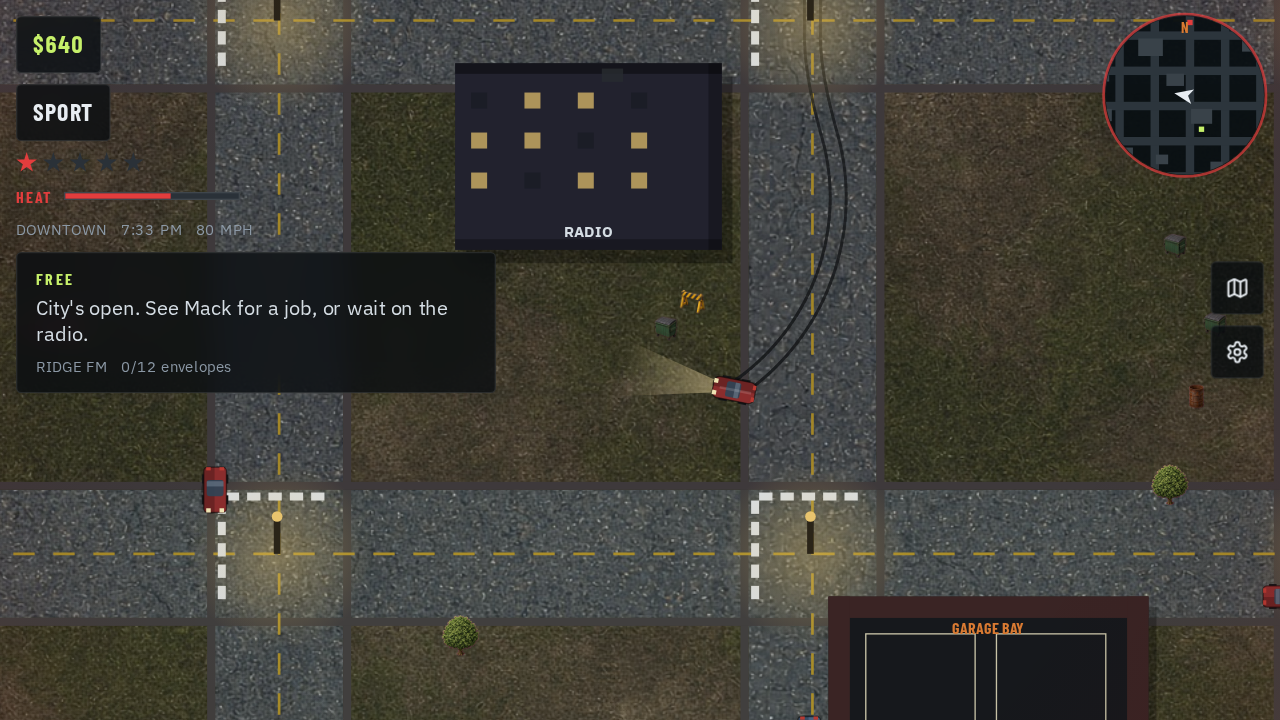
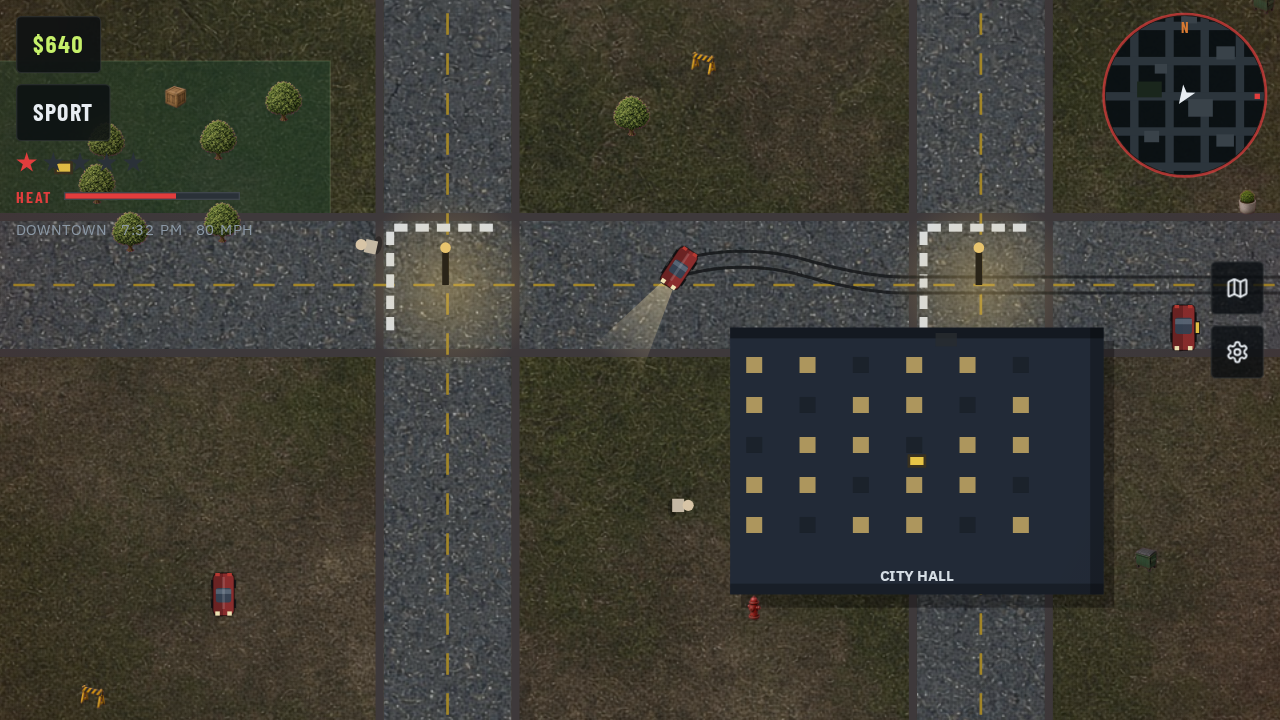
Media kit v1: apply the stills review
Stills. Shots 2, 3, 4 and 6 recaptured from the live site with the
free-roam job panel (.hud-mission) hidden: the same "FREE / City's open"
panel sat in four of six frames and covered the road in the chase. Shot 6
also hides the "SLOW DOWN, hide in the garage" hint, which contradicted a
car already parked in the bay and covered Mack. capture.mjs gains a
hideMission switch. Shot 5, the map, is dropped (flat grid, labels the
game draws on top of each other); the spec allows 4 to 6 stills and
capture.mjs keeps the map shot as an alt.

Card and banner. A darker, feathered band behind each title hides the
crosswalk paint that showed in the letter gaps, and the left shade goes
from 0.94 to 0.98 so the city's lit windows stop showing at lower left.
The road behind CITY and the car's headlight beam stay lit. The card's
age line and URL go from 28 to 35 px (about 12 px at phone width).

Rating. The card's age line is now read from the game's own start card
instead of being typed in compose.py, compose.py refuses to build when
the three share descriptions in index.html name a different age, and the
line is stamped into og.jpg so a stale card is detectable.

media/check.py checks the kit (sizes, stills, share tags, rating) and,
with --live, the deployed site: the live page's og:image must return 200
image/jpeg with the same bytes as public/og.jpg. It fails today, because
the live site does not carry the kit yet. README documents the ship and
rating-change steps.

diff --git a/media/compose.py b/media/compose.py
@@ -6,9 +6,15 @@
 Inputs: media/keyart.png (1920x1080, the game's own render at 2x, no DOM HUD; see media/capture.mjs `keyart`)
 and media/icon.svg. Fonts are the game's own (Barlow Condensed, IBM Plex Sans; SIL OFL), fetched from
 Google Fonts into ~/.cache/ridge-city-media/fonts on first run. Needs Pillow and the Inkscape CLI.
+
+The rating line on the card is read from the game's own start card (src/game/RidgeCity.tsx), never typed
+here, and the build refuses if the share descriptions in index.html name a different age. The kicker is
+stamped into og.jpg as a JPEG comment so `media/check.py` can tell when the card predates a rating change.
 """
 import os
+import re
 import subprocess
+import sys
 import urllib.request
 from pathlib import Path
 
@@ -35,11 +41,39 @@ ACCENT = (217, 122, 50)
 
 TITLE = "RIDGE CITY"
 TAGLINE = "Boost cars. Lose the tail. Get paid."
-KICKER = "AGES 10+ · NO GORE"
 URL = "ridgecity.icf.games"
+GAME_UI = ROOT / "src/game/RidgeCity.tsx"
+INDEX = ROOT / "index.html"
 
 # where the action sits in keyart.png (1920x1080): the jacked car, and the two cruisers behind it
 CAR = (1056, 538)
+
+
+def game_kicker():
+    """The rating line exactly as the game's start card shows it, e.g. 'AGES 10+ · NO GORE'."""
+    m = re.search(r'<div className="kicker">\s*(AGES [^<]*?)\s*</div>', GAME_UI.read_text(encoding="utf-8"))
+    if not m:
+        sys.exit(f"compose: no 'AGES ...' kicker on the start card in {GAME_UI.relative_to(ROOT)}")
+    return m.group(1)
+
+
+def rating_of(kicker):
+    """'AGES 10+ · NO GORE' -> '10+'; 'AGES 10-13 · ...' -> '10-13'."""
+    return kicker.split()[1]
+
+
+def rating_problems(kicker):
+    """Every share description in index.html must name the same age as the game; returns what disagrees."""
+    want = f"ages {rating_of(kicker)}".lower()
+    html = INDEX.read_text(encoding="utf-8")
+    probs = []
+    for key in ('name="description"', 'property="og:description"', 'name="twitter:description"'):
+        m = re.search(r"<meta " + re.escape(key) + r' content="([^"]*)"', html)
+        if not m:
+            probs.append(f"index.html: no {key} meta")
+        elif want not in m.group(1).lower():
+            probs.append(f"index.html {key} does not say '{want}' (the game's start card says '{kicker}')")
+    return probs
 
 
 def font(name, size):
@@ -64,8 +98,9 @@ def tracked_width(draw, text, fnt, tracking=0.0):
     return sum(draw.textlength(ch, font=fnt) for ch in text) + tracking * fnt.size * (len(text) - 1)
 
 
-def left_shade(size, solid, fade, alpha=0.94):
-    """Dark panel on the left that fades out to the right, so the title sits on the city, not a box."""
+def left_shade(size, solid, fade, alpha=0.98):
+    """Dark panel on the left that fades out to the right, so the title sits on the city, not a box.
+    0.98, not 0.94: at 0.94 the city's lit windows showed through at lower left on the card and banner."""
     w, h = size
     mask = Image.new("L", (w, 1), 0)
     px = mask.load()
@@ -84,6 +119,18 @@ def left_shade(size, solid, fade, alpha=0.94):
     return layer
 
 
+def title_band(size, box, alpha=0.95, feather=45):
+    """Extra shade behind the title block, so crosswalk paint does not show through the gap between
+    RIDGE and CITY. Feathered so it reads as shading, not a box."""
+    w, h = size
+    m = Image.new("L", (w, h), 0)
+    ImageDraw.Draw(m).rectangle(box, fill=255)
+    m = m.filter(ImageFilter.GaussianBlur(feather))
+    layer = Image.new("RGBA", (w, h), BG + (255,))
+    layer.putalpha(Image.eval(m, lambda v: int(v * alpha)))
+    return layer
+
+
 def vignette(size, strength=0.45):
     w, h = size
     m = Image.new("L", (w, h), 0)
@@ -96,22 +143,25 @@ def vignette(size, strength=0.45):
     return layer
 
 
-def card(art):
+def card(art, kicker):
     W, H = 1200, 630
     car_at = (868, 338)  # car on the right third, headlights pointing at the title
     x0, y0 = CAR[0] - car_at[0], CAR[1] - car_at[1]
     img = art.crop((x0, y0, x0 + W, y0 + H)).convert("RGBA")
     img.alpha_composite(vignette((W, H), 0.5))
-    img.alpha_composite(left_shade((W, H), solid=330, fade=790))
+    img.alpha_composite(left_shade((W, H), solid=360, fade=790))
+    # fades out by x ~650, so the road behind CITY and the car's headlight beam (car at x 868) stay lit
+    img.alpha_composite(title_band((W, H), (0, 150, 560, 520)))
     d = ImageDraw.Draw(img)
     left = 76
     # accent bar, the start card's and toast's orange edge
-    d.rectangle((left - 30, 158, left - 24, 486), fill=ACCENT)
-    tracked(d, (left, 158), KICKER, font("BarlowCondensed-Bold.ttf", 28), ACCENT, 0.18)
+    d.rectangle((left - 30, 150, left - 24, 498), fill=ACCENT)
+    # kicker and URL at 35 px: about 12 px when a phone shows the card 400 px wide
+    tracked(d, (left, 150), kicker, font("BarlowCondensed-Bold.ttf", 35), ACCENT, 0.16)
     tracked(d, (left - 4, 190), TITLE, font("BarlowCondensed-ExtraBold.ttf", 152), FG, 0.05)
     tracked(d, (left, 368), TAGLINE, font("BarlowCondensed-SemiBold.ttf", 48), CASH, 0.03)
     # no star row here: on a share card five stars read as a review score, not the wanted meter
-    d.text((left, 446), URL, font=font("IBMPlexSans-SemiBold.ttf", 28), fill=MUTED)
+    d.text((left, 450), URL, font=font("IBMPlexSans-SemiBold.ttf", 35), fill=MUTED)
     return img.convert("RGB")
 
 
@@ -124,6 +174,8 @@ def banner(art):
     img = art.crop((x0, y0, x0 + cw, y0 + ch)).resize((W, H), Image.LANCZOS).convert("RGBA")
     img.alpha_composite(vignette((W, H), 0.4))
     img.alpha_composite(left_shade((W, H), solid=380, fade=850))
+    # same job as on the card: crosswalk paint showed in the gap between the I and T of CITY (x ~425)
+    img.alpha_composite(title_band((W, H), (0, 30, 480, 230), feather=35))
     d = ImageDraw.Draw(img)
     left = 64
     d.rectangle((left - 24, 52, left - 19, 212), fill=ACCENT)
@@ -145,9 +197,13 @@ def icons():
 
 
 if __name__ == "__main__":
+    kicker = game_kicker()
+    probs = rating_problems(kicker)
+    if probs:
+        sys.exit("compose: refusing to build a card the share text contradicts:\n  " + "\n  ".join(probs))
     art = Image.open(MEDIA / "keyart.png").convert("RGB")
     assert art.size == (1920, 1080), art.size
-    card(art).save(PUBLIC / "og.jpg", quality=88, optimize=True, progressive=True)
+    card(art, kicker).save(PUBLIC / "og.jpg", quality=88, optimize=True, progressive=True, comment=kicker.encode("utf-8"))
     banner(art).save(PUBLIC / "banner.jpg", quality=88, optimize=True, progressive=True)
     icons()
     for f in ("og.jpg", "banner.jpg", "icon-512.png", "icon-180.png"):

diff --git a/media/check.py b/media/check.py
@@ -1,0 +1,98 @@
+#!/usr/bin/env python3
+"""Ridge City media kit checks. Exit 0 only when every check passes; each failure is one line saying what is wrong.
+
+    python3 media/check.py            # the kit in this tree: sizes, share tags, and the card's rating vs the game's
+    python3 media/check.py --live     # the deployed site, after it ships: checked from the player's side
+
+The live check fetches the page a share preview would fetch, reads its og:image, and confirms that URL serves
+the same bytes as public/og.jpg. It cannot see a platform's preview cache; see media/README.md, "Ship".
+"""
+import hashlib
+import re
+import sys
+import urllib.error
+import urllib.request
+
+from PIL import Image
+
+from compose import INDEX, PUBLIC, ROOT, game_kicker, rating_problems
+
+SIZES = {"og.jpg": ((1200, 630), "JPEG"), "banner.jpg": ((1200, 264), "JPEG"),
+         "icon-512.png": ((512, 512), "PNG"), "icon-180.png": ((180, 180), "PNG")}
+
+
+def meta(html, attr, key):
+    m = re.search(r"<meta " + attr + r'="' + re.escape(key) + r'" content="([^"]*)"', html)
+    return m.group(1) if m else None
+
+
+def local():
+    fails = []
+    for name, (size, fmt) in SIZES.items():
+        im = Image.open(PUBLIC / name)
+        if (im.size, im.format) != (size, fmt):
+            fails.append(f"public/{name} is {im.format} {im.size}, wants {fmt} {size}")
+    stills = sorted((ROOT / "media/screens").glob("*.png"))
+    if not 4 <= len(stills) <= 6:
+        fails.append(f"media/screens has {len(stills)} stills, the spec wants 4 to 6")
+    for f in stills:
+        if Image.open(f).size != (1280, 720):
+            fails.append(f"media/screens/{f.name} is not 1280x720")
+    # the rating is baked into the card: it must be the game's current start-card line
+    kicker = game_kicker()
+    baked = (Image.open(PUBLIC / "og.jpg").info.get("comment") or b"").decode("utf-8", "replace")
+    if baked != kicker:
+        fails.append(f"og.jpg was built for '{baked or '(unstamped)'}', the game's start card says '{kicker}': run python3 media/compose.py")
+    fails += rating_problems(kicker)
+    html = INDEX.read_text(encoding="utf-8")
+    site = meta(html, "property", "og:url") or ""
+    want = site + "og.jpg"
+    for attr, key, val in (("property", "og:image", want), ("name", "twitter:image", want),
+                           ("property", "og:image:width", "1200"), ("property", "og:image:height", "630"),
+                           ("name", "twitter:card", "summary_large_image")):
+        got = meta(html, attr, key)
+        if got != val:
+            fails.append(f"index.html {key} is {got!r}, wants {val!r}")
+    return fails, kicker
+
+
+def fetch(url):
+    req = urllib.request.Request(url, headers={"User-Agent": "ridge-city-media-check"})
+    try:
+        with urllib.request.urlopen(req, timeout=20) as r:
+            return r.status, r.headers.get("Content-Type", ""), r.read()
+    except urllib.error.HTTPError as e:
+        return e.code, e.headers.get("Content-Type", ""), b""
+
+
+def live():
+    site = meta(INDEX.read_text(encoding="utf-8"), "property", "og:url")
+    fails = []
+    status, ctype, body = fetch(site)
+    if status != 200:
+        return [f"{site} returned {status}"]
+    page = body.decode("utf-8", "replace")
+    img = meta(page, "property", "og:image")
+    if not img:
+        return [f"{site} serves no og:image tag: the deploy predates the kit, or the build dropped the tags"]
+    if meta(page, "name", "twitter:card") != "summary_large_image":
+        fails.append(f"{site} has no twitter:card summary_large_image")
+    status, ctype, body = fetch(img)
+    if status != 200 or not ctype.startswith("image/jpeg"):
+        fails.append(f"{img} returned {status} {ctype or '(no type)'}, wants 200 image/jpeg")
+    elif hashlib.sha256(body).digest() != hashlib.sha256((PUBLIC / "og.jpg").read_bytes()).digest():
+        fails.append(f"{img} serves different bytes from public/og.jpg: a stale deploy or a CDN copy")
+    return fails
+
+
+if __name__ == "__main__":
+    if "--live" in sys.argv[1:]:
+        fails = live()
+        ok = "live: page tags present, og.jpg is 200 image/jpeg and matches public/og.jpg"
+    else:
+        fails, kicker = local()
+        ok = f"kit: sizes, stills and share tags pass; card and descriptions match the game ('{kicker}')"
+    for f in fails:
+        print("FAIL", f)
+    print(ok if not fails else f"{len(fails)} failure(s)")
+    sys.exit(1 if fails else 0)

diff --git a/media/SHOTLIST.md b/media/SHOTLIST.md
@@ -9,7 +9,7 @@ Rating rule for every frame: 10+, cartoon, no gore, no guns. Show only what the 
 | 2 | `02-jacked-car.png` | Driving a jacked sport car through downtown at dusk, headlights on, skid marks behind | the core toy: take a car and go | warp beside the downtown sport car, jack it, hold W, slide with Shift |
 | 3 | `03-shop-alarm.png` | Knocking over a shop at night: the alarm ring, the crowd scattering, the cash toast | crime with a payoff, nobody hurt | on foot at a shop door, Space |
 | 4 | `04-wanted-cruiser.png` | Three wanted stars, cruisers on the tail with lights, heat meter filling | the chase | in a car, 3 stars, drive away from the cruisers |
-| 5 | `05-map.png` | The city map: districts, jobs, your cars on the radar | it is a real open city | M |
+| 5 | `05-map.png` (dropped, see below) | The city map: districts, jobs, your cars on the radar | it is a real open city | M |
 | 6 | `06-garage.png` | Rolling into Mack's garage bay to lose the heat | the escape and the payoff loop | drive into the bay with stars on |
 
 ## How they were captured (2026-10-01)
@@ -23,15 +23,23 @@ what a laptop at 125-150% display scaling shows; at 1280x720 and scale 1 the car
 - The game's own test hook (`window.__ridgeCity`: `warp`, `setWanted`, `forceRadio`) places the player and
   sets the heat. Driving, jacking, robbing and sliding are real key presses. The map's two yellow cars were
   bought at Mack's through the garage menu.
-- The keyboard help strip (`.controls-hint`) is hidden in every shot, and the control-hint bubble (`.hint`)
-  in shots 2 to 4. Everything else on screen is the game's renderer and HUD.
+- The keyboard help strip (`.controls-hint`) is hidden in every shot. The control-hint bubble (`.hint`) and the
+  free-roam job panel (`.hud-mission`, "FREE / City's open. See Mack for a job...") are hidden in shots 2, 3, 4
+  and 6: the panel was the same in all four and covered the road in the chase, and in 6 the hint said
+  "SLOW DOWN · hide in the garage" over a car already parked. Shot 1 keeps both; its panel is the first job.
+  Everything else on screen is the game's renderer and HUD.
 
-Script: `media/capture.mjs`. Picks went to `media/screens/` under the names above.
+Script: `media/capture.mjs`. Picks went to `media/screens/` under the names above. Shots 2, 3, 4 and 6 were
+recaptured the same day after the stills review, with the panel and hint hidden.
 
 ## Where the picks differ from the plan
 
 - 1: the pick is the moment before talking to Mack; talking ends the opening job and its toast covers the lot.
-- 3: the game draws no alarm ring. The alarm reads through the toast, the scattering crowd and the cruisers rolling in.
+- 3: the game draws no alarm ring. The alarm reads through the toast, the scattering crowd and the cruiser rolling in.
+  The recapture's pick is the Mart in the East End, the take that had all three.
+- 5: dropped. Most of the frame was a flat grid of identical blocks, and the game draws some labels on top of
+  each other ("MARKET" and "PAY SPRAY" run together; marker dots sit on "CITY HALL"). The spec allows 4 to 6
+  stills. The label collisions are the game's to fix, not the kit's; `capture.mjs` keeps the `map` shot as an alt.
 - 6: the car is already in the bay with the heat cooling. Driving in with cruisers close behind ended in an
   arrest in most takes.
 

diff --git a/media/README.md b/media/README.md
@@ -7,16 +7,40 @@ Sources for the Ridge City media kit. What ships is in `public/`: `og.jpg` (1200
 |---|---|
 | `SHOTLIST.md` | the shot list, written before capture, and how each still was made |
 | `capture.mjs` | Playwright script that plays the live game and takes the stills and key art |
-| `screens/` | six 1280x720 gameplay stills |
+| `screens/` | five 1280x720 gameplay stills (the plan's shot 5, the map, was dropped; see `SHOTLIST.md`) |
 | `keyart.png` | the chase frame the card and banner are cut from |
 | `compose.py` | builds the card, banner and icons (Pillow, Inkscape CLI) |
+| `check.py` | checks the kit (sizes, stills, share tags, rating), and with `--live` the deployed site |
 | `icon.svg` | the app icon: the game's radar ring and the favicon's wanted star |
 
-Rebuild: `python3 media/compose.py`. Recapture: copy `capture.mjs` next to an install of `playwright-core`
-and run `node capture.mjs <outdir> [shot ...]`.
+Rebuild: `python3 media/compose.py`, then `python3 media/check.py`. Recapture: copy `capture.mjs` next to an
+install of `playwright-core` and run `node capture.mjs <outdir> [shot ...]`.
 
 Provenance: every image is the game's own render or drawn here in SVG. No AI-generated assets. Fonts are
 the game's own, Barlow Condensed and IBM Plex Sans (SIL Open Font License), fetched from Google Fonts at
 build time and not stored in the repo. `public/game/splash.jpg` (from the Grok export) is not used.
 
-Rating: 10+ (cartoon, no gore, no guns). Nothing here shows more than the game shows.
+## Rating
+
+The card's top line is read from the game's own start card (`src/game/RidgeCity.tsx`, the `kicker`), so the
+card can never say a different age from the game. Today both say `AGES 10+ · NO GORE` (cartoon, no gore, no
+guns), and nothing here shows more than the game shows.
+
+The rating is baked into `public/og.jpg`, and share platforms cache the image. When the game's start card
+changes (the studio has Ridge City moving to 10-13, cartoon violence):
+
+1. edit the three share descriptions in `index.html` (`description`, `og:description`, `twitter:description`)
+   to the new age; `compose.py` refuses to build until they agree with the game;
+2. `python3 media/compose.py`, then `python3 media/check.py` (it fails while `og.jpg` still carries the old line);
+3. ship, then do the re-scrape step below.
+
+## Ship
+
+The tags point at `https://ridgecity.icf.games/og.jpg`. A local preview proves the tags exist, not that the card
+appears when the link is shared. After each deploy that changes the card or the tags:
+
+1. `python3 media/check.py --live`: the live page carries the tags, and its `og.jpg` returns 200 as
+   `image/jpeg` with the same bytes as `public/og.jpg`. Before the kit is deployed it fails, by design.
+2. Paste https://ridgecity.icf.games/ into a share debugger or a private chat and look at the card.
+3. Force a re-scrape anywhere the link was already previewed: the page shipped without share tags until the kit
+   landed, so those platforms cached a card with no image.
